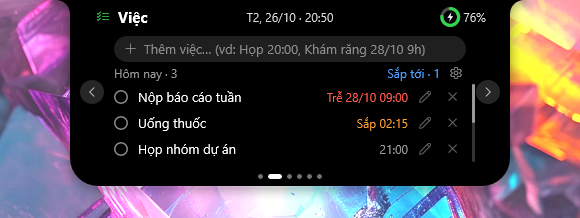
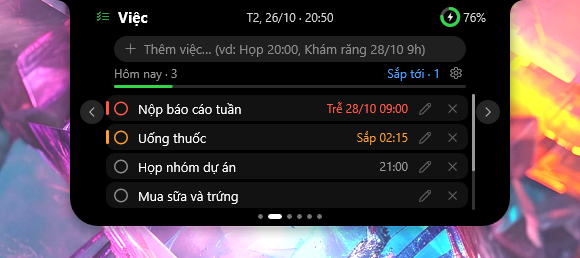
feat(tasks): the Tasks page is taller (4 rows), tasks are cards with a stripe for what is due soon, and a progress bar shows how much is done

diff --git a/src/render.rs b/src/render.rs
@@ -275,18 +275,24 @@ fn dots_y(h: f32) -> f32 {
 
 /// What the open panel measures (logical px) while `page` shows. One place decides it; the notch
 /// glides to it, and the layout and hit areas of the page read the same height.
-pub fn panel_size(_page: Page) -> [f32; 2] {
+pub fn panel_size(page: Page) -> [f32; 2] {
     let [w, h, _] = target(Mode::Expanded, false);
-    [w, h]
+    match page {
+        // Four task cards instead of three.
+        Page::Todo => [w, h + 40.0],
+        _ => [w, h],
+    }
 }
 /// Task list page.
 const INPUT_Y: f32 = 36.0;
 const INPUT_H: f32 = 26.0;
 const COUNT_Y: f32 = 66.0;
-const ROW_Y: f32 = 84.0;
-/// A task row is also its tick, edit and delete buttons: 26 px high, above macOS' 20 px minimum.
-const ROW_H: f32 = 26.0;
-pub const LIST_ROWS: usize = 3;
+const ROW_Y: f32 = 94.0;
+/// Under the counts: how much of today's list is done.
+const PROGRESS_Y: f32 = 85.0;
+/// A task row is also its tick, edit and delete buttons: 29 px high, drawn as a card.
+const ROW_H: f32 = 29.0;
+pub const LIST_ROWS: usize = 4;
 /// Weather page, logical px from the content's left / the panel's top. City line: the 24h and x
 /// buttons at its right end. Left block: the icon with the temperature beside it and the sky's
 /// words under that, the unit chips under the icon. Right block (from `STATS_X` to the content's
@@ -2255,6 +2261,16 @@ impl Renderer {
                             text(&format!("{} · {later}", tr("Sắp tới", "Upcoming")), F_LABEL, rect(cl, cy - 2.0 * s, cr - 26.0 * s, cy + 16.0 * s), trail,
                                 if later > 0 { solid(BLUE, a) } else { grey(0.6, a) })?;
                             let open_set = settings == Some(Card::Tasks);
+                            // Progress of the list: done over all, a thin bar that fills as ticks are made.
+                            if !open_set && !v.todos.is_empty() {
+                                let done = v.todos.iter().filter(|t| t.done.is_some()).count();
+                                let (bt, bh) = (PROGRESS_Y * s, 3.0 * s);
+                                rt.FillRoundedRectangle(&rounded(rect(cl, bt, cr, bt + bh), bh / 2.0), &self.brush(grey(0.16, a))?);
+                                let frac = done as f32 / v.todos.len() as f32;
+                                if frac > 0.0 {
+                                    rt.FillRoundedRectangle(&rounded(rect(cl, bt, cl + (cr - cl) * frac, bt + bh), bh / 2.0), &self.brush(solid(GREEN, a))?);
+                                }
+                            }
                             if let Some(gb) = rect_of(Button::Gear(Card::Tasks)) {
                                 let hot = hovered == Some(Button::Gear(Card::Tasks));
                                 let (icon, c) = if open_set { (ICON_CHECK, solid(GREEN, a)) } else { (ICON_GEAR, grey(if hot { 1.0 } else { 0.6 }, a)) };
@@ -2289,8 +2305,14 @@ impl Renderer {
                                     let Button::ListToggle(i) = *b else { continue };
                                     let Some(item) = v.todos.get(i) else { continue };
                                     let hot = row_hovered(i);
-                                    if hot {
-                                        rt.FillRoundedRectangle(&rounded(rect(br.left - 6.0 * s, br.top + 1.0 * s, cr + 2.0 * s, br.bottom - 1.0 * s), 8.0 * s), &self.brush(grey(0.1, a))?);
+                                    // Each task is a card; the stripe on its left says how soon it is due.
+                                    let card = rect(br.left - 8.0 * s, br.top + 1.0 * s, cr + 2.0 * s, br.bottom - 2.0 * s);
+                                    rt.FillRoundedRectangle(&rounded(card, 9.0 * s), &self.brush(grey(if hot { 0.13 } else { 0.07 }, a))?);
+                                    if let Some(at) = item.at.filter(|_| item.done.is_none()) {
+                                        let urgent = minutes(at) - minutes(lv.now) <= lv.remind_before.max(15) as i64;
+                                        if urgent {
+                                            rt.FillRoundedRectangle(&rounded(rect(card.left, card.top + 6.0 * s, card.left + 3.0 * s, card.bottom - 6.0 * s), 1.5 * s), &self.brush(time_color(at, false))?);
+                                        }
                                     }
                                     // Tick circle.
                                     let d = 14.0 * s;
@@ -2301,7 +2323,11 @@ impl Renderer {
                                         rt.FillEllipse(&circle, &self.brush(solid(GREEN, a))?);
                                         text(ICON_CHECK, F_TINY_ICON, rect(ccx - d / 2.0, ccy - d / 2.0, ccx + d / 2.0, ccy + d / 2.0), center, grey(0.0, a))?;
                                     } else {
-                                        rt.DrawEllipse(&circle, &self.brush(grey(if hot { 0.85 } else { 0.55 }, a))?, 1.5 * s, None);
+                                        let ring = match item.at {
+                                            Some(at) if minutes(at) - minutes(lv.now) <= lv.remind_before.max(15) as i64 => time_color(at, false),
+                                            _ => grey(if hot { 0.85 } else { 0.55 }, a),
+                                        };
+                                        rt.DrawEllipse(&circle, &self.brush(ring)?, 1.5 * s, None);
                                     }
                                     // When, on the right: "HH:MM" today, "Mai HH:MM", "dd/mm HH:MM" (red once past).
                                     let mut text_right = br.right;
@@ -3448,7 +3474,7 @@ mod tests {
         unsafe {
             use windows::Win32::System::Com::{CoInitializeEx, COINIT_APARTMENTTHREADED};
             let _ = CoInitializeEx(None, COINIT_APARTMENTTHREADED);
-            let (w, h) = (900, 230);
+            let (w, h) = (900, 270);
             let hwnd = CreateWindowExW(WS_EX_NOREDIRECTIONBITMAP, w!("STATIC"), w!("README shots"), WS_POPUP, 0, 0, w, h, None, None, None, None).unwrap();
             let lines = [
                 // Made-up lines about the feature itself (no song's lyrics in the README pictures).
@@ -3560,7 +3586,7 @@ mod tests {
                 ];
                 for (name, style, mode, music, page, tab, banner) in extra {
                     let live = music.is_some();
-                    let size = match banner { Some(t) => notch::alert_size_choice(if t.body.chars().count() > 60 { 2 } else { 1 }), None => target(mode, live) };
+                    let size = match banner { Some(t) => notch::alert_size_choice(if t.body.chars().count() > 60 { 2 } else { 1 }), None if mode == Mode::Expanded => { let [w, h] = panel_size(page); [w, h, target(mode, live)[2]] } None => target(mode, live) };
                     let view = View { mode, size, time: "20:50", date: "T2, 26/10", battery: charging(76), banner, music, live, robot: None, phase: 1.3, banner_age: 9.0, lyrics: false, hours: false, hovered: None, page,
                         leaving: None, todos: if page == Page::Todo { &tasks } else { &[] }, notes: if page == Page::Notify { &notes } else { &[] }, weather: &none, page_age: 9.0, unit: weather::Unit::C,
                         list: ListView { counts: if page == Page::Todo { (3, 1) } else { (0, 0) }, remind_before: 15, now: crate::todo::stamp(20261029, 2, 5), draft: "", editing: false, edit_item: None, caret: false, scroll: 0, note_pos: 0.0 },

diff --git a/tools/readme_shots.py b/tools/readme_shots.py
@@ -21,7 +21,7 @@ SIZES = {
     "pill-idle": (260, 44), "pill-music": (260, 44), "weather-pill": (260, 44), "weather-pill-music": (260, 44),
     "style-pill-idle": (260, 50), "style-pill-music": (260, 50),
     "page-music": (580, 218), "page-music-empty": (580, 218), "page-health": (580, 218), "page-weather": (580, 218),
-    "page-tasks": (580, 218), "page-notifications": (580, 218),
+    "page-tasks": (580, 258), "page-notifications": (580, 218),
     "page-usage-claude": (580, 218), "page-usage-codex": (580, 218), "page-usage-antigravity": (580, 218),
     "style-pill-page": (580, 224),
     "page-music-lyrics": (900, 218),
